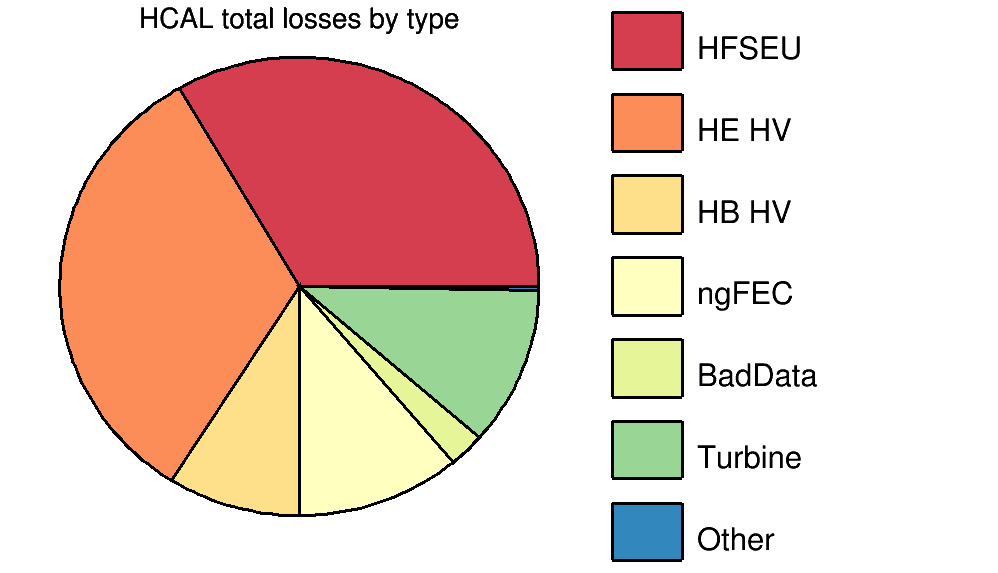
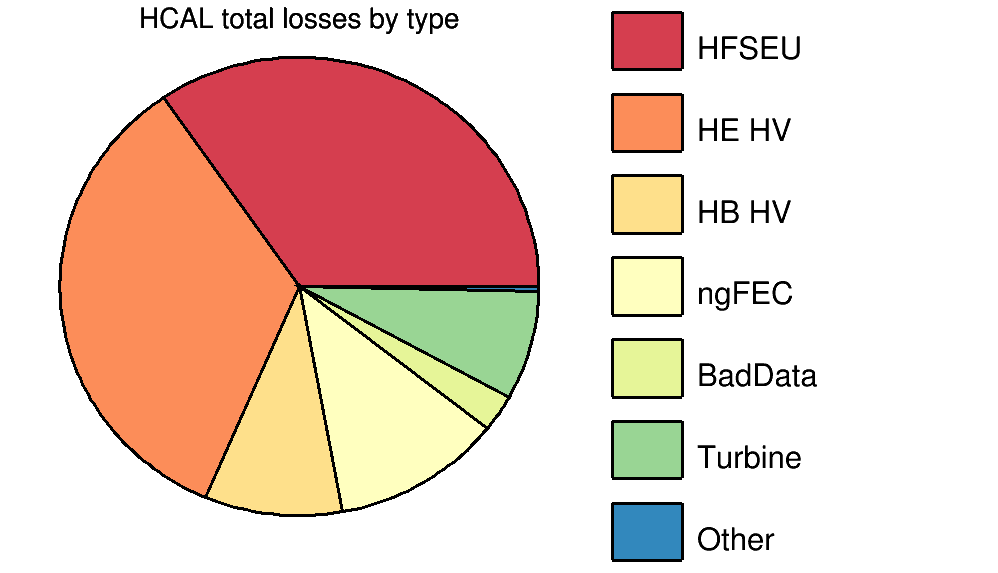
turbine is 33/pb

Changed region(s): [[0.1553, 0.5044, 0.5281, 0.9197], [0.1553, 0.1483, 0.2796, 0.445], [0.2796, 0.445, 0.3106, 0.4747]]

diff --git a/downtimes.cc b/downtimes.cc
@@ -200,7 +200,7 @@ void downtimes(){
   // Week 43
  float wk43_cmsrecorded = 3426.5;
  float  wk43_HF_305376 = 1.23; // HF bad fiber http://cmsonline.cern.ch/cms-elog/1017097
- float  wk43_NOTHCAL   = 49.4; // turbine failure in HF rack, not HCAL http://cmsonline.cern.ch/cms-elog/1017701
+ float  wk43_NOTHCAL   = 33.; // turbine failure in HF rack, not HCAL http://cmsonline.cern.ch/cms-elog/1017701
  float wk43_totalloss = 
         wk43_HF_305376 +
         wk43_NOTHCAL   ; 
